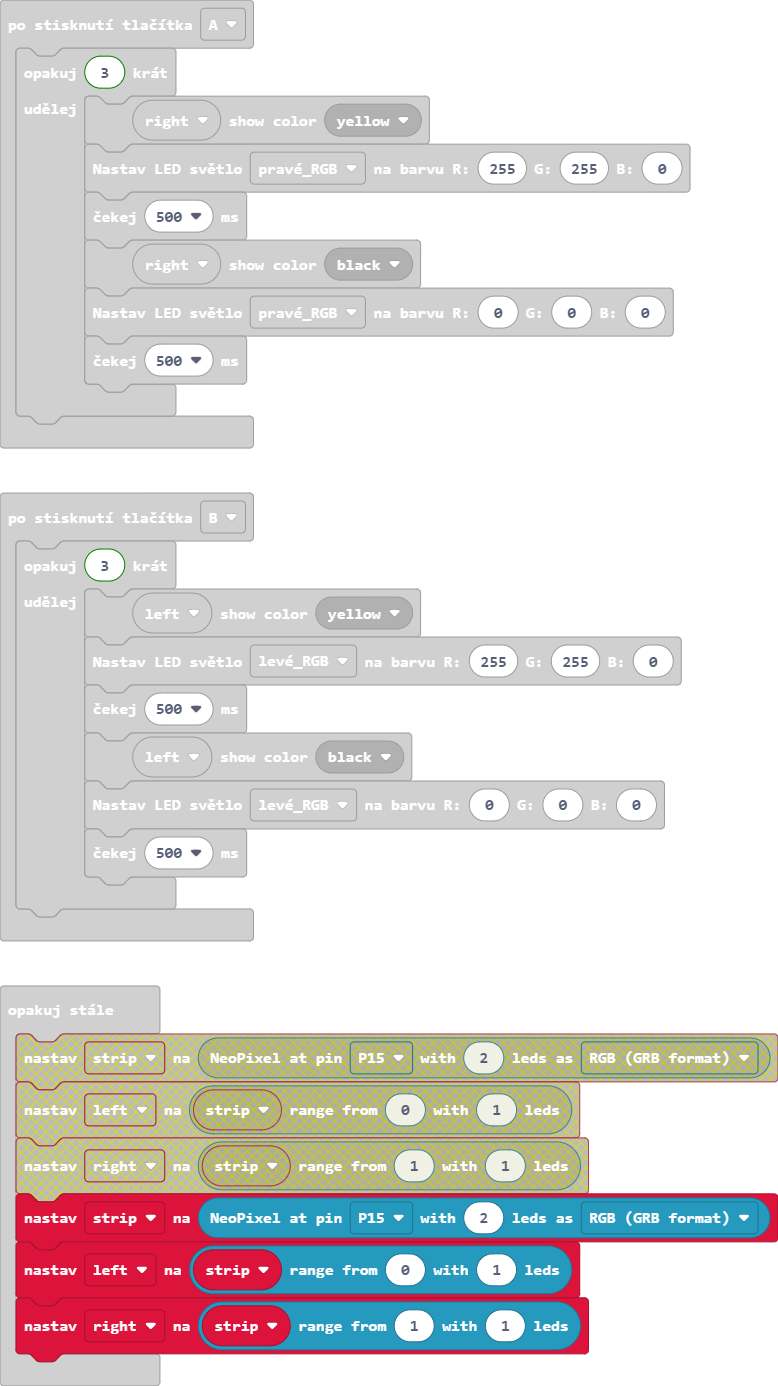
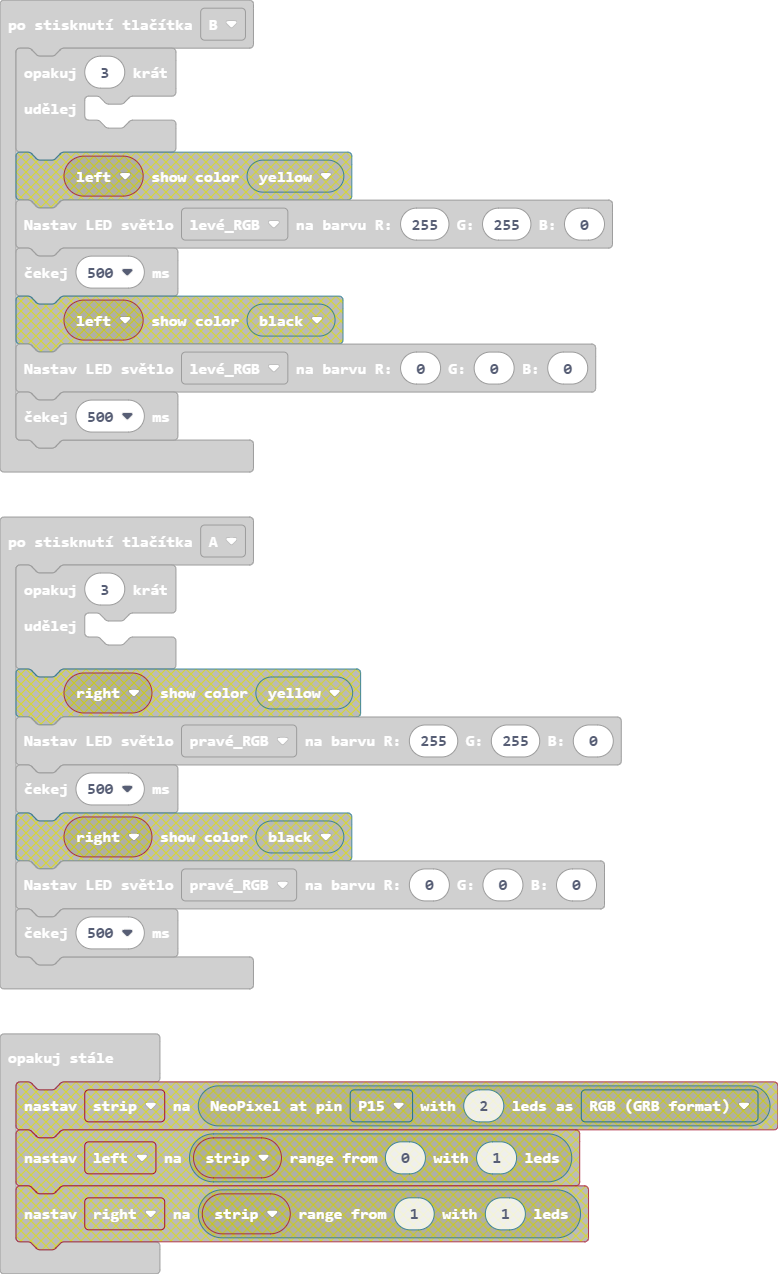
Aktualizovat main.blocks, main.ts

diff --git a/main.ts b/main.ts
@@ -1,29 +1,20 @@
 input.onButtonPressed(Button.A, function () {
     for (let index = 0; index < 3; index++) {
-        right.showColor(neopixel.colors(NeoPixelColors.Yellow))
         cuteBot.singleheadlights(cuteBot.RGBLights.RGB_L, 255, 255, 0)
         basic.pause(500)
-        right.showColor(neopixel.colors(NeoPixelColors.Black))
         cuteBot.singleheadlights(cuteBot.RGBLights.RGB_L, 0, 0, 0)
         basic.pause(500)
     }
 })
 input.onButtonPressed(Button.B, function () {
     for (let index = 0; index < 3; index++) {
-        left.showColor(neopixel.colors(NeoPixelColors.Yellow))
         cuteBot.singleheadlights(cuteBot.RGBLights.RGB_R, 255, 255, 0)
         basic.pause(500)
-        left.showColor(neopixel.colors(NeoPixelColors.Black))
         cuteBot.singleheadlights(cuteBot.RGBLights.RGB_R, 0, 0, 0)
         basic.pause(500)
     }
 })
-let strip: neopixel.Strip = null
-let left: neopixel.Strip = null
-let right: neopixel.Strip = null
 basic.showIcon(IconNames.Heart)
 basic.forever(function () {
-    strip = neopixel.create(DigitalPin.P15, 2, NeoPixelMode.RGB)
-    left = strip.range(0, 1)
-    right = strip.range(1, 1)
+	
 })
